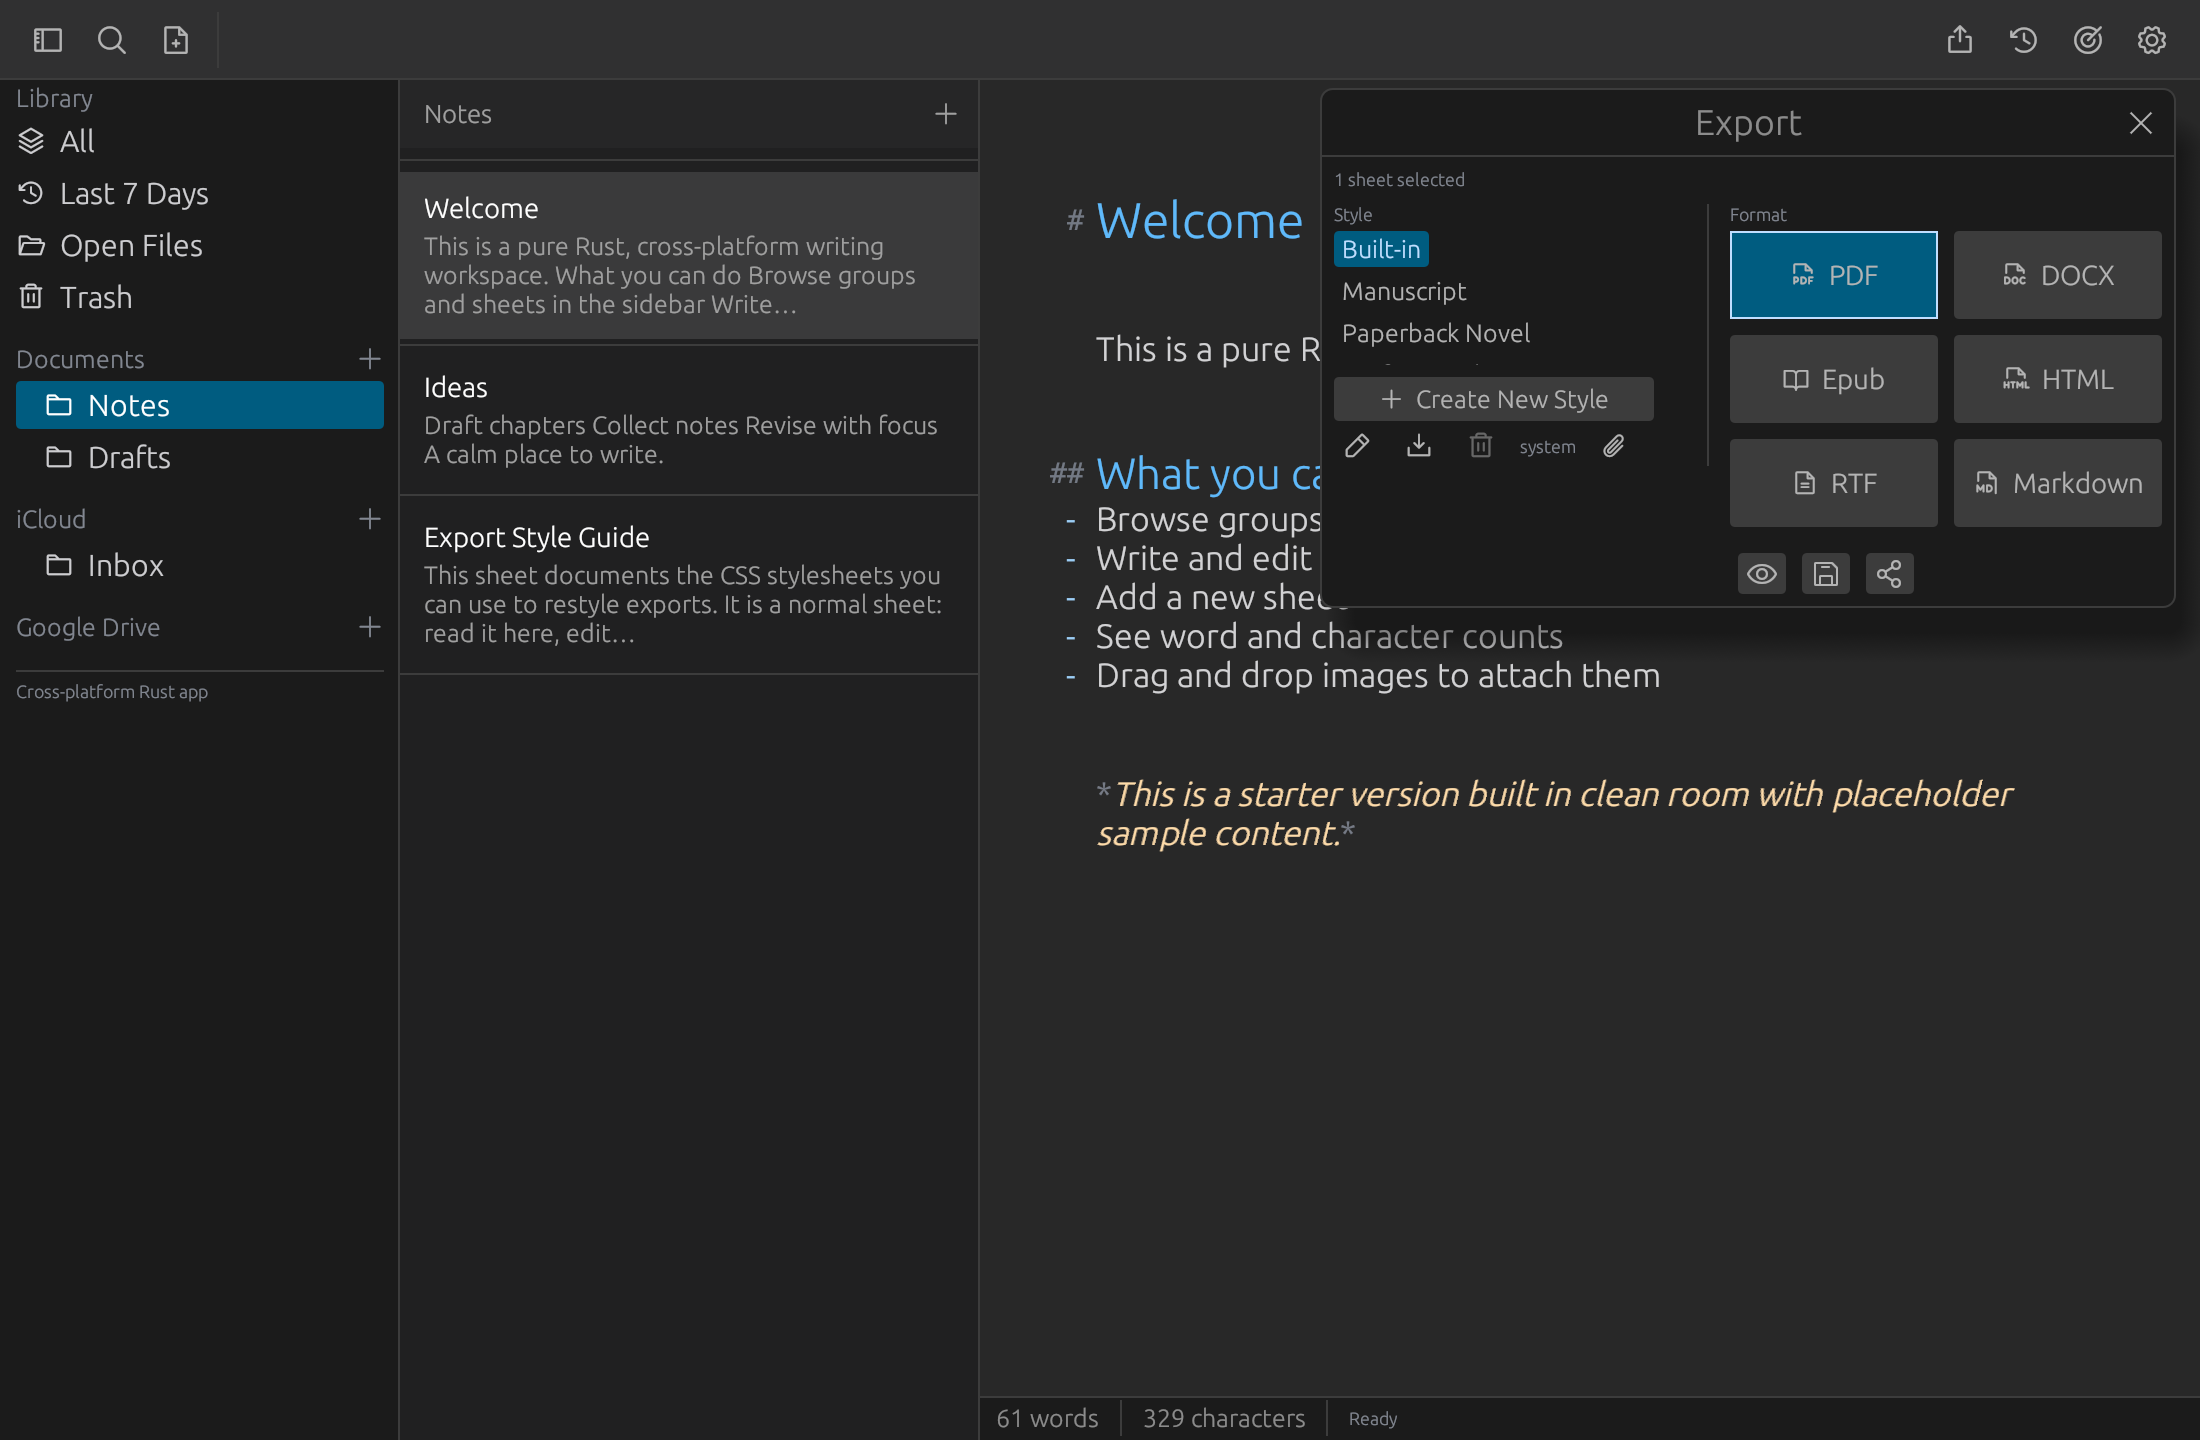
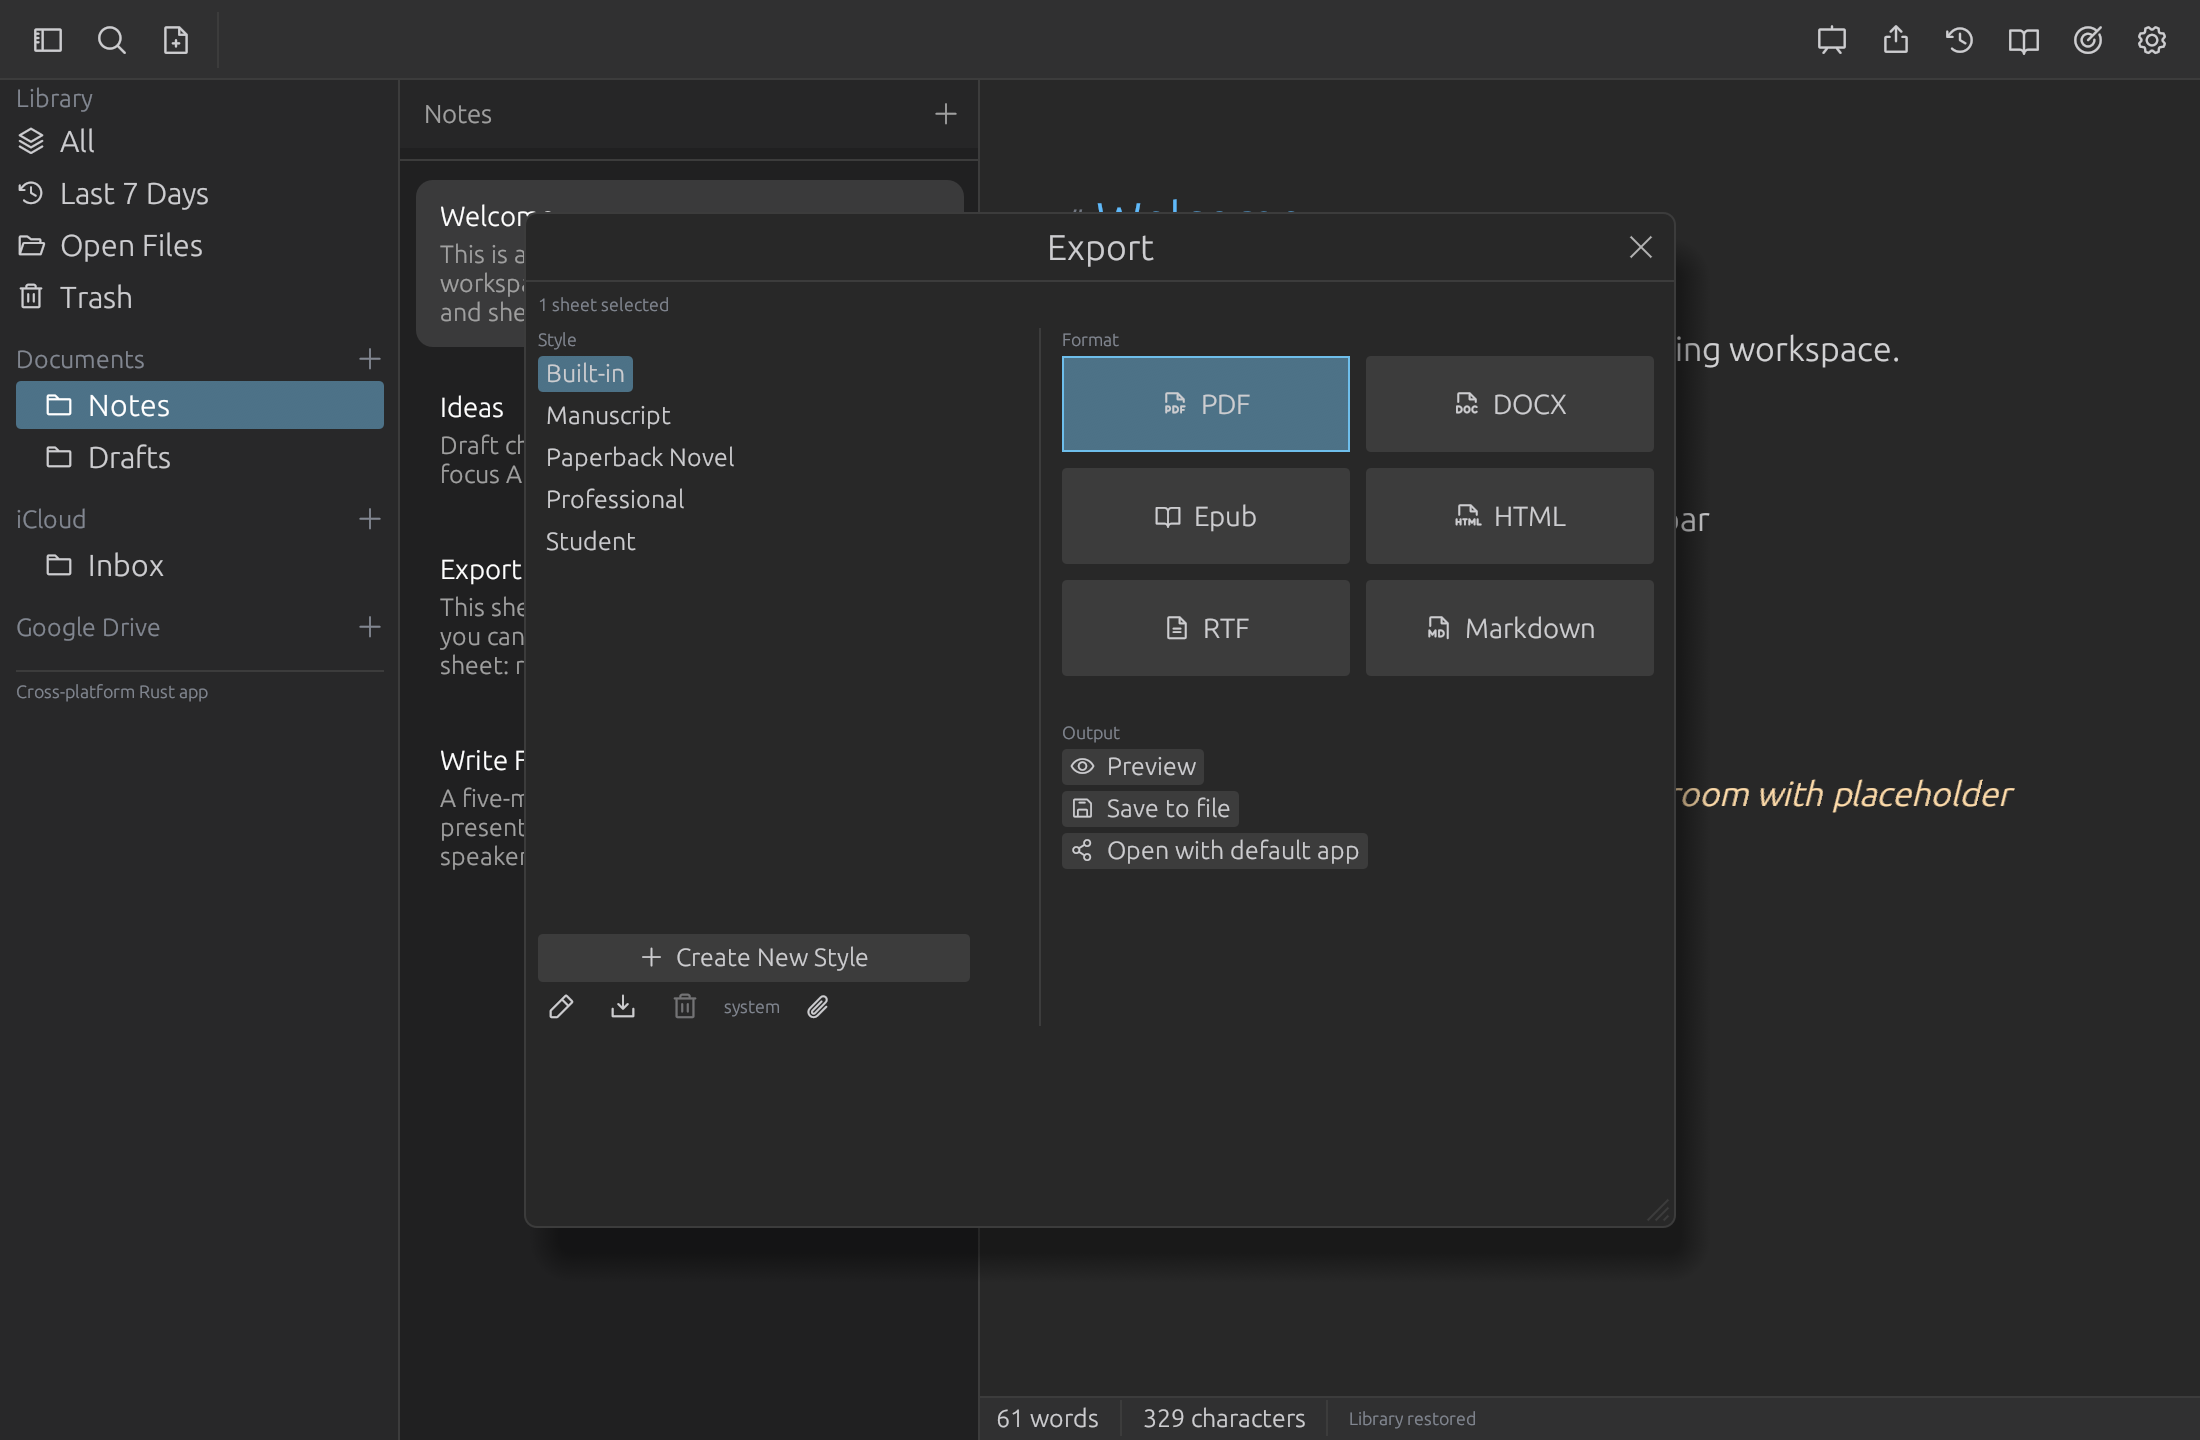
Docs: refresh screenshots, expand README, add screenshot hooks

diff --git a/app/src/main.rs b/app/src/main.rs
@@ -3409,6 +3409,38 @@ impl WritingApp {
             app.save_library();
         }
         app.load_history();
+        // Screenshot docs hooks (all session-only, never persisted).
+        // Each is independent so one `--screenshot` run captures one view.
+        if let Ok(tab) = std::env::var("ARIADNE_SCREENSHOT_SETTINGS") {
+            app.settings_open = true;
+            let t = tab.to_lowercase();
+            app.settings_tab = if t.contains("editor") {
+                SettingsTab::Editor
+            } else if t.contains("check") {
+                SettingsTab::Checking
+            } else if t.contains("sync") {
+                SettingsTab::Sync
+            } else if t.contains("update") {
+                SettingsTab::Updates
+            } else {
+                SettingsTab::Appearance
+            };
+        }
+        if std::env::var("ARIADNE_SCREENSHOT_SEARCH").is_ok() {
+            app.search_open = true;
+            app.search_focus = true;
+        }
+        if std::env::var("ARIADNE_SCREENSHOT_STYLE").is_ok() {
+            app.grammar.style_visible = true;
+            app.goals_visible = false;
+        }
+        if std::env::var("ARIADNE_SCREENSHOT_GOALS").is_ok() {
+            app.goals_visible = true;
+            app.grammar.style_visible = false;
+        }
+        if std::env::var("ARIADNE_SCREENSHOT_HISTORY").is_ok() {
+            app.history_open = true;
+        }
         app
     }
 

diff --git a/README.md b/README.md
@@ -9,10 +9,106 @@ no runtime beyond the OS GUI layer.
 
 ![Ariadne library, sheets, and editor](app/assets/screenshots/hero.png)
 
+## Library, sheets, and editor
+
+- **Library sidebar:** `All`, `Last 7 Days`, `Open Files`, and `Trash` smart
+  filters, plus `Documents`, `iCloud`, and `Google Drive` sections containing
+  groups of sheets.
+- **Sheets list:** per-group sheet cards with title and preview text,
+  multi-select, and a sheets header `+` for new sheets.
+- **Editor:** Markdown source editing with syntax tinting, `#` margin marks,
+  lists (`Return` continues, `Tab`/`Shift-Tab` nests), checklists, quotes, code,
+  and drag-and-drop image attachments (`![alt](attachment:…)`).
+- **Status bar:** live word and character counts plus a status line.
+
+## Command palette and shortcuts
+
+Press `Cmd/Ctrl+Shift+P` (magnifying-glass icon) to fuzzy-search sheets and
+run commands:
+
+![Command palette](app/assets/screenshots/command-palette.png)
+
+| Shortcut | Action |
+| --- | --- |
+| `Cmd/Ctrl+N` | New sheet |
+| `Cmd/Ctrl+B` | Toggle sidebars |
+| `Cmd/Ctrl+Shift+P` | Command palette / search |
+| `Cmd/Ctrl+F` | Find in sheet |
+| `Cmd/Ctrl+E` | Share / export |
+| `Cmd/Ctrl+P` | Present |
+| `Cmd/Ctrl+G` | Writing goals |
+| `Cmd/Ctrl+/` | Style suggestions |
+| `Cmd/Ctrl+Y` | History |
+| `Cmd/Ctrl+,` | Settings |
+| `Cmd/Ctrl+Alt+T` / `F` / `Z` | Typewriter / Focus / Zen mode |
+| `Esc` | Leave Zen mode, close find/palette |
+
+## Appearance and editor settings
+
+Settings (`Cmd/Ctrl+,`, gear icon) has five tabs: Appearance, Editor,
+Checking, Sync, and Updates.
+
+![Appearance settings with theme grids](app/assets/screenshots/settings-appearance.png)
+
+- **Appearance:** 9 dark and 8 light built-in themes (Dark, Light, Gruvbox,
+  Dracula, Nord, Catppuccin, Rosé Pine, Everforest, Solarized, Tokyo Night,
+  and their light variants), plus custom themes (`New theme…`, `Import…`,
+  Edit/Save/Copy/Delete).
+- **Editor:** system font family picker, 8–32 pt size slider, and reading
+  modes:
+
+![Editor settings](app/assets/screenshots/settings-editor.png)
+
+  - Typewriter scrolling (caret line centered),
+  - Focus mode (dims paragraphs outside the caret's),
+  - Zen mode (editor only; `Esc` leaves).
+
+## Goals, history, and style sidebar
+
+The header bar's target, clock, and book icons open three right sidebars:
+
+![Writing goals sidebar](app/assets/screenshots/goals.png)
+
+- **Writing goals:** per-library word target with progress (`Set a word
+  target to track progress`).
+- **History:** per-sheet snapshots with age/character counts, `Snapshot now`,
+  `Clear`, and per-snapshot `Restore`.
+- **Style sidebar:** concision and clarity notes with click-to-jump and
+  one-click fixes; its open/closed state is remembered across runs.
+
+![Style suggestions sidebar](app/assets/screenshots/style-sidebar.png)
+![Sheet history sidebar](app/assets/screenshots/history.png)
+
+## Present mode
+
+`Cmd/Ctrl+P` (presentation icon) turns the current sheet into a slide deck:
+each heading starts a new slide, visual blocks (bullets, quotes, code,
+images) render on the slide, and plain paragraphs become presenter-only
+speaker notes. `---` makes an untitled image slide. Arrows move, `Esc` ends.
+
+![Present mode style and slides](app/assets/screenshots/present.png)
+
+The setup view offers `Style` (color theme from Coolors palettes, header/body
+fonts, background colors, aspect ratio) and `Slides` (filmstrip) tabs, a `Play`
+button, teleprompter notes, a timer, and deck export. `example-slideshow.md`
+is a five-minute demo talk written for this mode. Tick `Handout` in Export to
+emit slides plus script.
+
+## Export
+
 Export to Markdown, HTML, PDF, Word, Rich Text, and ePub with built-in
-styles (Manuscript, Student, Paperback Novel, Professional) or your own CSS:
+styles (Built-in, Manuscript, Student, Paperback Novel, Professional) or your
+own CSS:
 
 ![Export popover with style list and format grid](app/assets/screenshots/export-popover.png)
+
+- Pick a style from the left list, then a format from the right grid.
+- `Create New Style` starts from a starter template; the icon row edits the
+  active style (built-ins open as a copy), imports a `.css` file, deletes the
+  style, or attaches a font file (`.ttf`/`.otf`/`.ttc`) for export-only fonts.
+- `Preview`, `Save to file`, and `Open with default app` are the outputs.
+- The `Export Style Guide` starter sheet documents the stylesheet selectors;
+  the `Write First, Present Later` starter sheet documents present mode.
 
 ## iCloud sync (Mac)
 
@@ -21,6 +117,8 @@ sign-in needed beyond having iCloud Drive enabled. The section is mirrored
 as a plain tree of folders and `.md` files, so it stays readable in Finder
 and Spotlight; the app's JSON store remains the source of truth and rewrites
 the mirror on every save. Documents stay local on each Mac.
+
+![Sync settings](app/assets/screenshots/settings-sync.png)
 
 - Move the store under Settings → Sync (“Move iCloud section to iCloud
   Drive”, or back). Moving unions both sides, never overwrites.
@@ -45,15 +143,38 @@ seconds; conflicts get the same `(conflict copy)` review as iCloud.
 Checking runs fully on-device with [Harper](https://github.com/automerge/harper)
 — no account, no network, your text never leaves the Mac:
 
-- **Inline**: spelling and grammar mistakes get red/blue squiggles as you
+![Checking settings](app/assets/screenshots/settings-checking.png)
+
+- **Inline:** spelling and grammar mistakes get red/blue squiggles as you
   type. Put the caret in one for a fix popup (apply, ignore, or add the
   word to your dictionary).
 - **Style sidebar** (book icon in the header): concision and clarity notes —
   wordy phrases, passive voice, redundancies — with click-to-jump and
   one-click fixes. Its open/closed state is remembered across runs.
-- **Custom dictionary**: words you add sync across devices with the rest of
+- **Custom dictionary:** words you add sync across devices with the rest of
   the library (removing one syncs the removal too); manage the list in
   Settings, which is also where the master toggle lives.
+
+## Updates
+
+![Updates settings](app/assets/screenshots/settings-updates.png)
+
+The app checks those GitHub Releases for updates: once a day after launch
+(plus a manual "Check for updates" in Settings → Updates and the command
+palette). When a newer version is out, Settings shows an Updates tab with
+release notes and a Download button that opens the right installer for your
+OS — the app never replaces itself. A red dot on the Settings gear marks an
+available update. Checks can be turned off in the same tab.
+
+## Files and storage
+
+- Local library: OS app-data folder (`com.craft-anything.ariadne`),
+  `library.json` plus `window.json` (geometry), custom themes, and the
+  `ariadne-styles` folder.
+- `ARIADNE_LIBRARY_PATH`, `ARIADNE_WINDOW_PATH`, `ARIADNE_ICLOUD_DIR`, and
+  `ARIADNE_GDRIVE_DIR` redirect storage (used by tests and screenshot runs).
+- Sync mirrors stay human-readable: folders plus `.md` files for iCloud
+  Drive and Google Drive.
 
 ## Run from source
 
@@ -69,6 +190,19 @@ cd app
 ./target/debug/ariadne --screenshot shots/check.png
 ```
 
+Docs screenshot hooks (session-only, never persisted):
+
+```sh
+ARIADNE_SCREENSHOT_POPOVER=1 … --screenshot shots/export.png
+ARIADNE_SCREENSHOT_PRESENT=1 … --screenshot shots/present.png
+ARIADNE_SCREENSHOT_SETTINGS=Appearance|Editor|Checking|Sync|Updates …
+ARIADNE_SCREENSHOT_SEARCH=1|STYLE=1|GOALS=1|HISTORY=1 …
+```
+
+Combine with `ARIADNE_LIBRARY_PATH` / `ARIADNE_WINDOW_PATH` /
+`ARIADNE_ICLOUD_DIR` / `ARIADNE_GDRIVE_DIR` / `ARIADNE_NO_UPDATE_CHECK=1`
+for isolated docs captures.
+
 ## Tests
 
 ```sh
@@ -80,13 +214,6 @@ cargo test
 
 Tagged versions build signed-or-notarized-free artifacts for macOS, Windows,
 and Linux via GitHub Actions. See [DISTRIBUTING.md](DISTRIBUTING.md).
-
-The app checks those GitHub Releases for updates: once a day after launch
-(plus a manual "Check for updates" in Settings → Updates and the command
-palette). When a newer version is out, Settings shows an Updates tab with
-release notes and a Download button that opens the right installer for your
-OS — the app never replaces itself. A red dot on the Settings gear marks an
-available update. Checks can be turned off in the same tab.
 
 ## License
 
